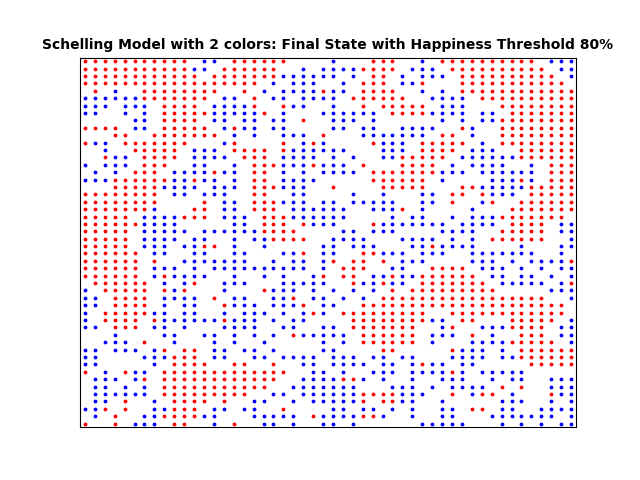
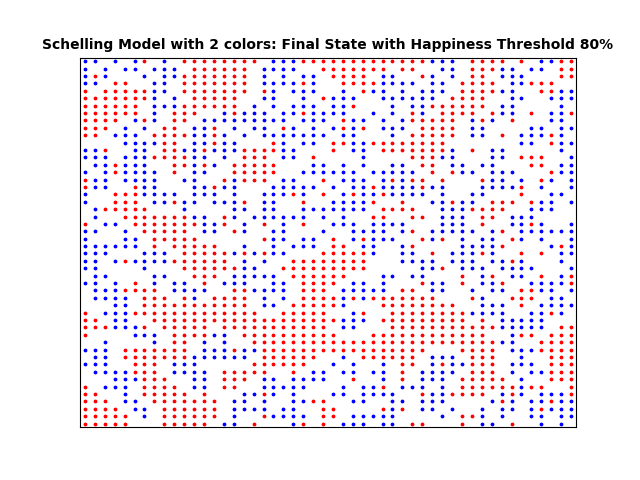
Agents can swap

Changed region(s): [[0.125, 0.125, 0.9062, 0.9062]]

diff --git a/Segregation.py b/Segregation.py
@@ -96,7 +96,7 @@ class Schelling:
         else:
             return float(count_similar) / (count_similar + count_different) < color_threshold
     
-    def move_locations(self, similarity_threshold=1e-2, consecutive_iterations_threshold=1):
+    def move_locations(self, similarity_threshold=1e-2, consecutive_iterations_threshold=1, swap_probability=0.5):
         total_distance = 0
         prev_similarity = 0.0
         consecutive_iterations = 0
@@ -108,13 +108,24 @@ class Schelling:
             for agent in self.old_agents:
                 if self.is_unsatisfied(agent[0], agent[1]):
                     agent_color = self.agents[agent]
-                    empty_house = random.choice(self.empty_houses)
-                    self.agents[empty_house] = agent_color
-                    del self.agents[agent]
-                    self.empty_houses.remove(empty_house)
-                    self.empty_houses.append(agent)
-                    total_distance += abs(empty_house[0] - agent[0]) + abs(empty_house[1] - agent[1])
-                    n_changes += 1
+                    
+                    # Check if the agent is willing to swap with an open position
+                    if random.random() < swap_probability:
+                        empty_house = random.choice(self.empty_houses)
+                        self.agents[empty_house] = agent_color
+                        del self.agents[agent]
+                        self.empty_houses.remove(empty_house)
+                        self.empty_houses.append(agent)
+                        total_distance += abs(empty_house[0] - agent[0]) + abs(empty_house[1] - agent[1])
+                        n_changes += 1
+                    else:
+                        # Find a willing agent to swap with
+                        willing_agents = [a for a in self.old_agents if a != agent and self.is_willing_to_swap(a, agent)]
+                        if willing_agents:
+                            willing_agent = random.choice(willing_agents)
+                            self.agents[agent], self.agents[willing_agent] = self.agents[willing_agent], self.agents[agent]
+                            total_distance += abs(willing_agent[0] - agent[0]) + abs(willing_agent[1] - agent[1])
+                            n_changes += 1
 
             similarity_percentage = self.calculate_similarity() * 100
             print('Iteration: %d, Similarity Percentage: %3.2f%%, Number of changes: %d, total distance: %d' % (
@@ -135,7 +146,29 @@ class Schelling:
 
             if n_changes == 0:
                 break
+    
+    def is_willing_to_swap(self, agent1, agent2):
+        x1, y1 = agent1
+        x2, y2 = agent2
 
+        # Check if the coordinates are in the agents dictionary
+        if (x1, y1) not in self.agents or (x2, y2) not in self.agents:
+            return False
+
+        return self.calculate_similarity_for_agent(agent1) < self.calculate_similarity_for_agent(agent2)
+    
+    def calculate_similarity_for_agent(self, agent):
+        # Calculate similarity for a specific agent
+        count_similar = 0
+        count_different = 0
+        x, y = agent
+        color = self.agents[(x, y)]
+
+        try:
+            return float(count_similar) / (count_similar + count_different)
+        except ZeroDivisionError:
+            return 1.0
+    
     def plot(self, title, file_name):
         fig, ax = plt.subplots()
         # If you want to run the simulation with more than 7 colors, you should set agent_colors accordingly
